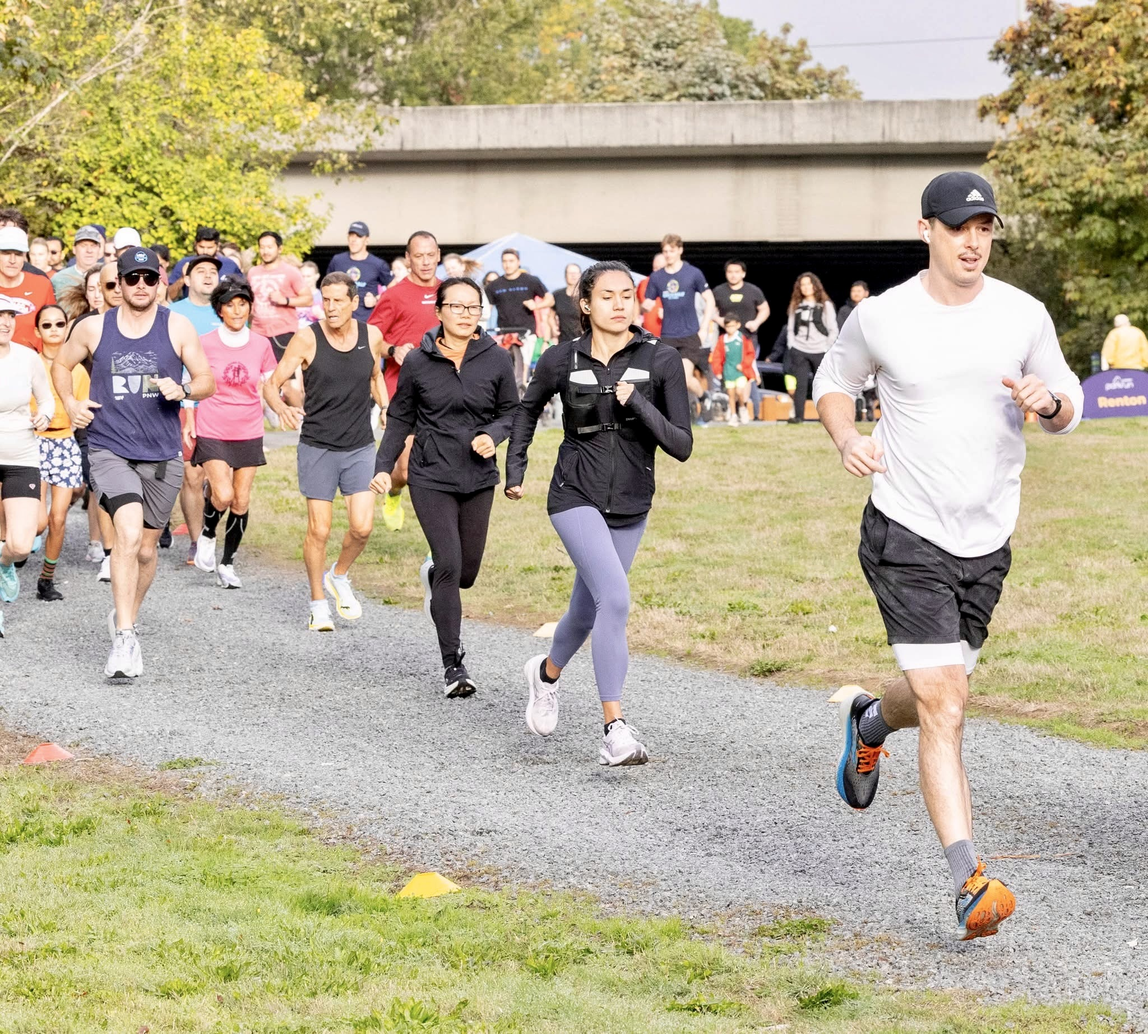
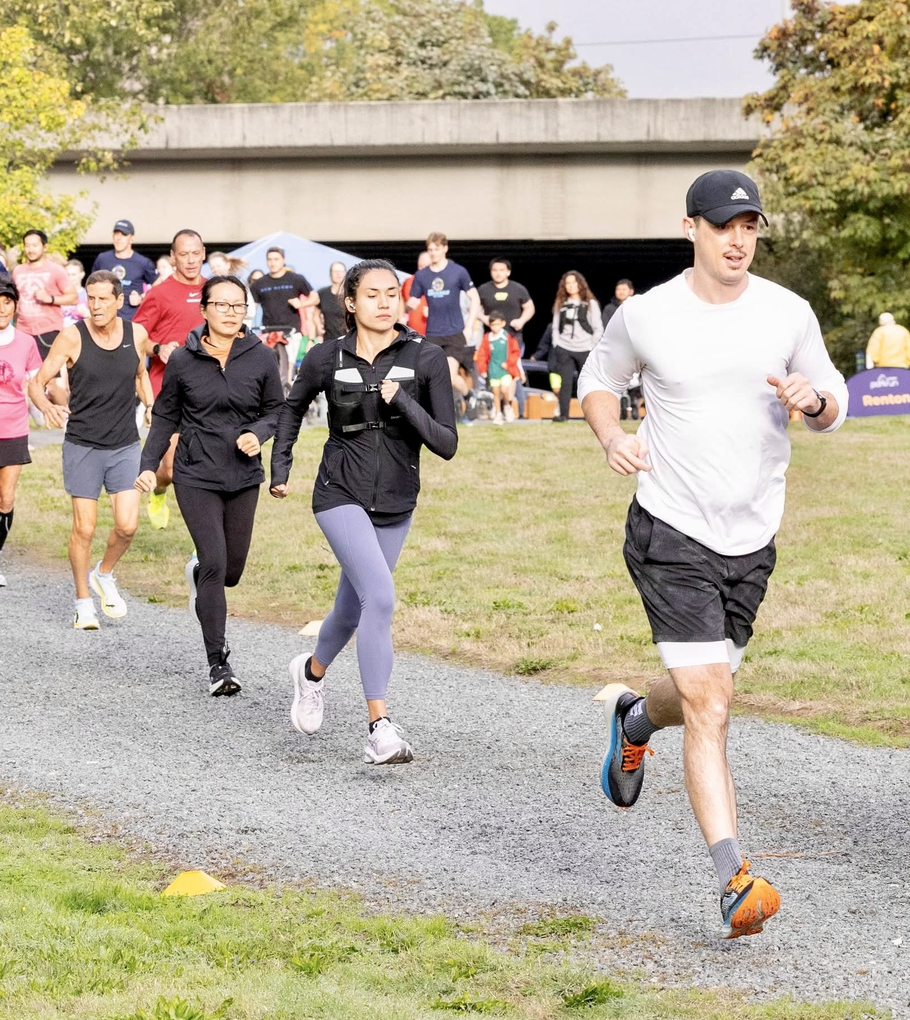
fix: restore touch interaction and randomize photos
- Re-enable touch interactions on the resume modal to fix scroll behavior.
- Add photo shuffling logic for the about section imagery.
- Add a new personal photo asset.

diff --git a/src/components/ResumeModal.tsx b/src/components/ResumeModal.tsx
@@ -41,7 +41,7 @@ export const ResumeModal: React.FC<ResumeModalProps> = ({
   return typeof document !== 'undefined'
     ? createPortal(
         <AnimatePresence>
-          <div className="fixed inset-0 z-[9999] flex items-center justify-center p-2 sm:p-6 overflow-hidden overscroll-none touch-none">
+          <div className="fixed inset-0 z-[9999] flex items-center justify-center p-2 sm:p-6 overflow-hidden overscroll-none">
             {/* Scrim */}
             <motion.div
               initial={{ opacity: 0 }}
@@ -63,12 +63,16 @@ export const ResumeModal: React.FC<ResumeModalProps> = ({
               animate={{ opacity: 1, scale: 1, y: 0 }}
               exit={{ opacity: 0, scale: 0.95, y: 20 }}
               transition={{ type: 'spring', stiffness: 280, damping: 28 }}
-              className={`relative w-full max-w-5xl h-[92vh] sm:h-[90vh] rounded-[24px] sm:rounded-[32px] flex flex-col overflow-hidden z-10 my-auto backdrop-blur-2xl transition-colors duration-200 border-0 shadow-none overscroll-contain ${
+              className={`relative w-full max-w-5xl h-[92vh] sm:h-[90vh] rounded-[24px] sm:rounded-[32px] flex flex-col overflow-hidden z-10 my-auto backdrop-blur-2xl transition-colors duration-200 border-0 shadow-none ${
                 light
                   ? 'bg-white text-stone-900'
                   : 'bg-stone-950 text-white'
               }`}
-              style={{ border: 'none', boxShadow: 'none' }}
+              style={{
+                border: 'none',
+                boxShadow: 'none',
+                touchAction: 'auto',
+              }}
             >
               {/* Header */}
               <div className={`flex items-center justify-between px-5 sm:px-8 py-4 sm:py-5 border-b border-0 border-b-transparent shrink-0 select-none ${
@@ -111,9 +115,15 @@ export const ResumeModal: React.FC<ResumeModalProps> = ({
               </div>
 
               {/* PDF Viewer Body (No border, no shadow) */}
-              <div className={`relative flex-1 w-full h-full overflow-hidden p-0 m-0 border-0 shadow-none overscroll-contain ${
-                light ? 'bg-stone-100' : 'bg-stone-900'
-              }`}>
+              <div
+                className={`relative flex-1 w-full h-full overflow-auto p-0 m-0 border-0 shadow-none ${
+                  light ? 'bg-stone-100' : 'bg-stone-900'
+                }`}
+                style={{
+                  WebkitOverflowScrolling: 'touch',
+                  touchAction: 'auto',
+                }}
+              >
                 {/* Loading Spinner Indicator */}
                 {isIframeLoading && (
                   <div className="absolute inset-0 z-20 flex flex-col items-center justify-center gap-3 transition-opacity duration-300">
@@ -132,10 +142,15 @@ export const ResumeModal: React.FC<ResumeModalProps> = ({
                   src={`${resumePdfPath}#toolbar=0&navpanes=0&scrollbar=1&view=FitH`}
                   title="Alex McDonald Product Design Engineer Resume"
                   onLoad={() => setIsIframeLoading(false)}
-                  className={`w-full h-full border-0 outline-none shadow-none transition-opacity duration-300 ${
+                  className={`w-full h-full min-h-full border-0 outline-none shadow-none transition-opacity duration-300 ${
                     isIframeLoading ? 'opacity-0 pointer-events-none' : 'opacity-100'
                   }`}
-                  style={{ border: 'none', outline: 'none', boxShadow: 'none' }}
+                  style={{
+                    border: 'none',
+                    outline: 'none',
+                    boxShadow: 'none',
+                    touchAction: 'auto',
+                  }}
                 />
               </div>
             </motion.div>

diff --git a/src/components/ResumeSection.tsx b/src/components/ResumeSection.tsx
@@ -1,4 +1,4 @@
-import React, { useState, useEffect, useRef } from 'react';
+import React, { useState, useEffect, useRef, useMemo } from 'react';
 import { createPortal } from 'react-dom';
 import { motion, AnimatePresence } from 'motion/react';
 import {
@@ -31,7 +31,14 @@ const LATEST_STRAVA_ACTIVITY = {
   path: 'M 30 75 Q 65 15, 125 30 T 215 25 T 275 70 T 230 125 T 125 115 T 50 95 Z'
 };
 
-const PERSONAL_PHOTOS = [
+interface PersonalPhoto {
+  id: string;
+  url: string;
+  tilt: string;
+  width?: string;
+}
+
+const PERSONAL_PHOTOS: PersonalPhoto[] = [
   {
     id: 'img-7012',
     url: '/assets/images/about/IMG_7012.jpeg',
@@ -106,10 +113,15 @@ const PERSONAL_PHOTOS = [
   }
 ];
 
-const TRACK_PHOTOS = [
-  ...PERSONAL_PHOTOS,
-  ...PERSONAL_PHOTOS
-];
+// Helper function to shuffle an array (Fisher-Yates)
+function shuffleArray<T>(array: T[]): T[] {
+  const shuffled = [...array];
+  for (let i = shuffled.length - 1; i > 0; i--) {
+    const j = Math.floor(Math.random() * (i + 1));
+    [shuffled[i], shuffled[j]] = [shuffled[j], shuffled[i]];
+  }
+  return shuffled;
+}
 
 interface ResumeSectionProps {
   onOpenResumeModal: () => void;
@@ -124,6 +136,10 @@ export const ResumeSection: React.FC<ResumeSectionProps> = ({
 }) => {
   // Lightbox State for Personal Photos
   const [selectedPhoto, setSelectedPhoto] = useState<string | null>(null);
+
+  // Randomize the order of pictures every time the page loads
+  const [shuffledPhotos] = useState<PersonalPhoto[]>(() => shuffleArray(PERSONAL_PHOTOS));
+  const trackPhotos = useMemo(() => [...shuffledPhotos, ...shuffledPhotos], [shuffledPhotos]);
 
   useEffect(() => {
     onPhotoModalChange?.(Boolean(selectedPhoto));
@@ -287,16 +303,17 @@ export const ResumeSection: React.FC<ResumeSectionProps> = ({
           }
         `}</style>
         <div
-          className="flex items-center w-max py-3 px-1 hover:[animation-play-state:paused]"
+          className="flex items-center w-max py-3 px-1"
           style={{
             animation: 'infiniteScrollLeft 150s linear infinite',
+            animationPlayState: selectedPhoto ? 'paused' : 'running',
             willChange: 'transform',
             background: 'transparent'
           }}
         >
           {/* Primary Track */}
           <div className="flex shrink-0 items-center gap-4 sm:gap-6 pr-4 sm:pr-6">
-            {TRACK_PHOTOS.map((photo, idx) => (
+            {trackPhotos.map((photo, idx) => (
               <motion.div
                 key={`track1-${photo.id}-${idx}`}
                 whileHover={{ scale: 1.05, y: -6, zIndex: 30 }}
@@ -330,7 +347,7 @@ export const ResumeSection: React.FC<ResumeSectionProps> = ({
 
           {/* Secondary Track (Identical clone for seamless continuous looping) */}
           <div className="flex shrink-0 items-center gap-4 sm:gap-6 pr-4 sm:pr-6" aria-hidden="true">
-            {TRACK_PHOTOS.map((photo, idx) => (
+            {trackPhotos.map((photo, idx) => (
               <motion.div
                 key={`track2-${photo.id}-${idx}`}
                 whileHover={{ scale: 1.05, y: -6, zIndex: 30 }}

diff --git a/src/App.tsx b/src/App.tsx
@@ -217,7 +217,9 @@ export default function App() {
       document.documentElement.style.overflow = 'hidden';
       document.body.style.overscrollBehavior = 'none';
       document.documentElement.style.overscrollBehavior = 'none';
-      document.body.style.touchAction = 'none';
+      if (showIntro) {
+        document.body.style.touchAction = 'none';
+      }
     } else {
       document.body.style.overflow = '';
       document.documentElement.style.overflow = '';
@@ -232,7 +234,7 @@ export default function App() {
       document.documentElement.style.overscrollBehavior = '';
       document.body.style.touchAction = '';
     };
-  }, [isScrollLocked]);
+  }, [isScrollLocked, showIntro]);
 
   // Modular visionOS Glass Card styles for separated sections
   const headerGlassClasses = `glass w-full rounded-[36px] px-4 sm:px-8 lg:px-10 py-5 sm:py-6 transition-all duration-300 border scroll-mt-14 ${
